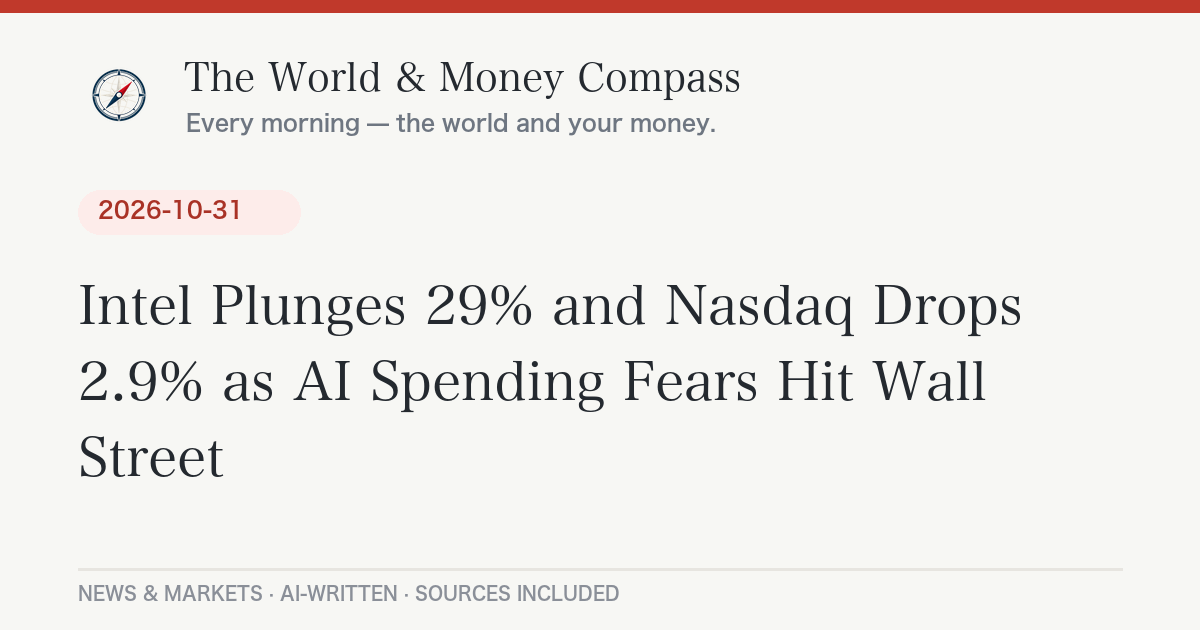
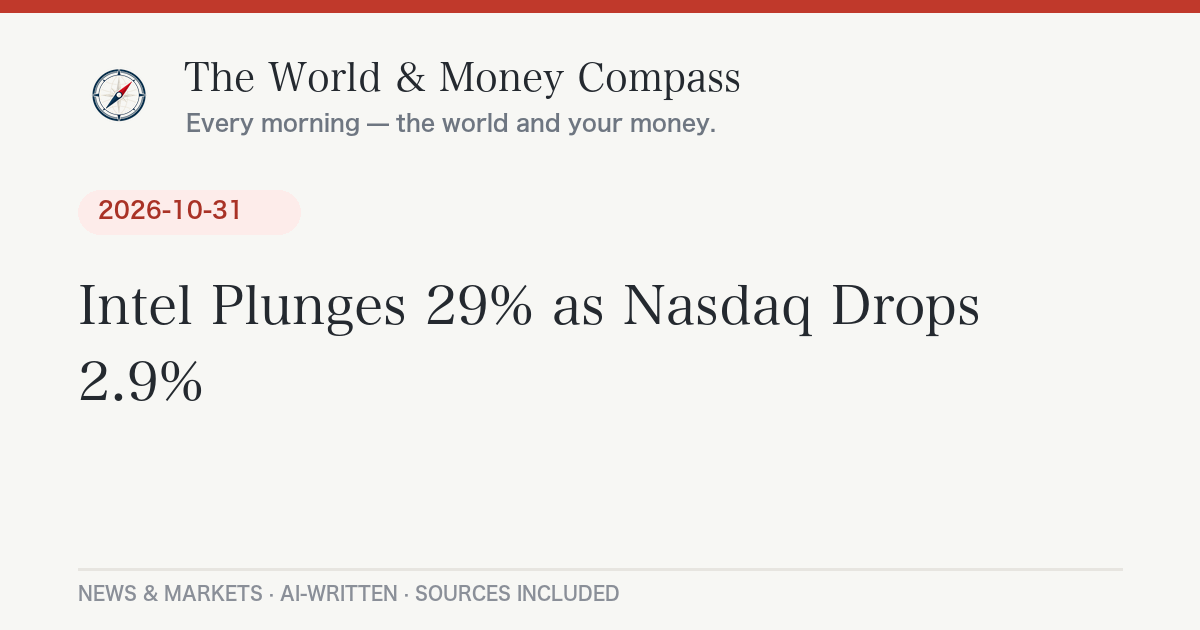
Daily briefing 2026-11-02

Changed region(s): [[0.185, 0.573, 0.8325, 0.6635], [0.4625, 0.4524, 0.8633, 0.5429], [0.0617, 0.6937, 0.185, 0.754]]

diff --git a/_posts/2026-11-02-daily-briefing.md b/_posts/2026-11-02-daily-briefing.md
@@ -1,0 +1,98 @@
+---
+layout: post
+lang: ja
+title: "米ハイテク株が急落、日経平均は2%超の反落｜11月2日のニュースとお金"
+date: 2026-11-02 07:37:44 +0900
+categories: [ニュース, 経済]
+headline: "米ハイテク株が急落、日経平均は2%超の反落"
+permalink: /2026/11/02/daily-briefing/
+---
+
+## 今日のポイント
+
+先週末の金融市場は「AI関連株の売り」と「原油高」が同時に進みました。米国ではナスダックが1日で2%台後半下がり、東京市場も連れ安に。さらに中東情勢の緊張で原油が高止まりし、物価と金利への心配が重なっています。今週は米国の中間選挙（11月3日）も控え、動きの大きい一週間になりそうです。
+
+## 今日の羅針盤（Compass Insight）
+
+いま市場を動かしている糸は2本あります。ひとつは「AIへの巨額投資が本当に利益になるのか」という疑い、もうひとつは「原油高が物価を押し上げ、金利が下がりにくくなる」という心配です。この2本が同時に引かれると、株は下がりやすく、安全資産に資金が逃げやすくなります。先週の米国では、決算が弱かった大手ハイテクが売られる一方、債券は買われて長期金利が低下しました。
+
+家計への影響で見ると、原油高は円安と合わさってガソリン・電気・ガス代、輸入食品の値上がりにつながりやすい点がポイントです。ドル円は157円台と円安水準にあり、エネルギー価格の上昇が家計に届きやすい状況です。投資信託や積立でAI・半導体関連の比率が高い人は、値動きが大きくなる局面に入っている点に注意が必要です。
+
+短期では、3日の米中間選挙と、その後の中東（イランをめぐる）情勢の動きに注目です。中長期では、日銀の次の利上げの時期、欧米の物価と金利の方向、そしてAI関連企業の投資負担が利益に見合うかどうかが、相場の大きな分かれ目になる可能性があります。
+
+## 今日のニュース
+
+### 日本
+- 日銀は10月30日の金融政策決定会合で、[政策金利を1.25％程度に維持](https://www.youtube.com/watch?v=FHmbEM26npw)しました。9月の利上げの効果を見極める姿勢と報じられています。
+- 30日の東京株式市場で日経平均は[大幅反落](https://kabutan.jp/news/marketnews/?b=n202610301226)。前日の米ハイテク株安を受け、AI・半導体関連株に売りが広がりました。
+- 北海道ではJR宗谷線の特急がヒグマと衝突して脱線したと報じられています（NHK）。
+- GMOインターネットグループの不正アクセス問題をめぐり、社長による説明の会見が11月2日に予定されていると報じられています。
+
+### 世界
+- 中東では、イランの最高指導者が新たな攻撃があれば「即座に軍事的に応じる」と警告。米国は追加攻撃をまだ決めていません。米国のルビオ国務長官は[「トランプ大統領は再開の決定をしていない」と述べました](https://www.foxnews.com/live-news/iran-war-news-trump-us-israel-november-1)。
+- 米国で開かれるG20外相会合では、ウクライナと中東の戦争をめぐる[溝が深く、統一した声明は難しい](https://www.tradingview.com/news/reuters.com,2026:newsml_L2N46F1AH:0-rifts-over-wars-in-ukraine-middle-east-loom-over-g20-meeting-in-us/)と報じられています。
+- ウクライナでは、ロシアの攻撃で電力インフラが被害を受けるなど、[攻撃の応酬が続いています](https://www.cfr.org/global-conflict-tracker/conflict/conflict-ukraine)。
+
+### アメリカ
+- 11月3日（火）が中間選挙の投開票日。トランプ大統領は、イランとの交渉は「うまくいっている」としつつ、相手の約束の守り方には疑問を示しました。追加攻撃は選挙前には行われにくいと報じられています。
+- 連邦準備制度（Fed）は今週の会合で金利を据え置いたと報じられています。ただし[一部の地区連銀総裁が追加利上げの可能性に言及](https://finance.yahoo.com/markets/live/stock-market-today-friday-october-30-dow-sp-500-nasdaq-amazon-intel-ai-sell-off-191429143.html)しています。
+
+### ヨーロッパ
+- 欧州中央銀行（ECB）は10月29日、[預金金利を2.5％に据え置き](https://www.euronews.com/2026/10/29/ecb-holds-rates-at-25-as-lagarde-announces-early-exit-with-inflation-near-double-the-targe)ました。ラガルド総裁は2027年2月7日に退任すると発表しています。
+- フランスの10年国債利回りは先週、2002年以来初めて5％を超えました。ユーロ圏の9月の物価上昇率は3.8％と、約3年ぶりの高さです（同記事）。
+
+## 経済とお金の動き
+
+### 世界の経済と相場
+
+| 指標 | 水準 | 前日比 |
+|---|---|---|
+| S&P500（10/30終値） | 7,580.07 | <span class="chg-down">-140.32（-1.82%）</span> |
+| ダウ平均（10/30終値） | 51,770.31ドル | <span class="chg-down">-572.29（-1.09%）</span> |
+| ナスダック総合（10/30終値） | 25,437.00 | <span class="chg-down">-747.70（-2.86%）</span> |
+| WTI原油（12月物） | 104.12ドル/バレル | <span class="chg-up">+1.98%</span> |
+| ドル円（ECB基準日10/30） | 157.25円 | 前日比データなし |
+
+出典：[米株はYahoo Finance](https://finance.yahoo.com/markets/live/stock-market-today-friday-october-30-dow-sp-500-nasdaq-amazon-intel-ai-sell-off-191429143.html)、[WTIはDTN](https://www.dtnpf.com/agriculture/web/ag/news/world-policy/article/2026/10/30/wti-15-october-fears-iran-war)、[ドル円はfrankfurter API](https://api.frankfurter.app/latest?from=USD&to=JPY)。
+
+ナスダックは10月全体で[約5％下落](https://finance.yahoo.com/markets/live/stock-market-today-friday-october-30-dow-sp-500-nasdaq-amazon-intel-ai-sell-off-191429143.html)し、2025年3月以来の月間下げ幅となりました。WTI原油は10月に約15％上昇しており、[ホルムズ海峡周辺の緊張](https://www.dtnpf.com/agriculture/web/ag/news/world-policy/article/2026/10/30/wti-15-october-fears-iran-war)が背景です。コメント：株安・原油高・金利高止まりが同時に起きやすい、いわば「重い」相場です。
+
+### アメリカの経済
+米10年国債利回りは[4.93％前後](https://finance.yahoo.com/markets/live/stock-market-today-friday-october-30-dow-sp-500-nasdaq-amazon-intel-ai-sell-off-191429143.html)で、株売りに伴う安全資産買いで低下しました。9月の物価指標が強く、年内の追加利上げを意識する見方も出ています。コメント：物価が下がりにくい中で企業業績が崩れると、株にとっては二重の逆風になります。
+
+### 日本の経済
+日経平均の30日の終値は[63,290.11円で、1,369.36円（2.12%）の下落](https://zai.diamond.jp/articles/-/498245)。4営業日ぶりの反落です。日銀は[現状維持](https://www.youtube.com/watch?v=FHmbEM26npw)を決め、市場の予想どおりだったため、相場への影響は限定的でした。コメント：円安の水準でも、海外のAI関連株安には逆らえなかった形です。
+
+## 今日の注目銘柄・セクター
+
+- **アルファベット（Google）**：10月28日の決算が市場予想を下回り、[決算後に株価が急落](https://finance.yahoo.com/markets/live/stock-market-today-friday-october-30-dow-sp-500-nasdaq-amazon-intel-ai-sell-off-191429143.html)したと報じられています。AI投資の重さが意識されました。
+- **インテル**：次期の見通しが弱く、PC需要の鈍さとメモリー価格が重荷になり、株価が[大きく下落](https://finance.yahoo.com/markets/live/stock-market-today-friday-october-30-dow-sp-500-nasdaq-amazon-intel-ai-sell-off-191429143.html)しました。
+- **アマゾン**：決算が予想を下回り、巨額の設備投資に対するフリーキャッシュフローの悪化が嫌気されました（同記事）。
+- **エネルギー・精製セクター**：原油高と精製マージンの改善を背景に、買われたと報じられています。
+
+*※特定銘柄の売買を推奨するものではありません。投資判断はご自身の責任で。*
+
+## まとめ：注目の3つ
+
+1. **3日の米中間選挙**：結果次第で、イラン情勢と市場の空気が変わる可能性があります。
+2. **AI関連株の動揺**：決算と巨額投資の採算が、株価の方向を左右します。
+3. **原油高と金利**：家計の物価と、日銀・Fed・ECBの次の一手に直結します。
+
+---
+<div class="post-sources" markdown="1">
+
+**出典：**
+- [Yahoo Finance：米国株式市場（10月30日）](https://finance.yahoo.com/markets/live/stock-market-today-friday-october-30-dow-sp-500-nasdaq-amazon-intel-ai-sell-off-191429143.html)
+- [ザイFX：日経平均大引け](https://zai.diamond.jp/articles/-/498245)
+- [株探：日経平均 大引け（10月30日）](https://kabutan.jp/news/marketnews/?b=n202610301226)
+- [ANN：日銀 政策金利を1.25％程度に維持](https://www.youtube.com/watch?v=FHmbEM26npw)
+- [DTN：WTI 10月に15％上昇](https://www.dtnpf.com/agriculture/web/ag/news/world-policy/article/2026/10/30/wti-15-october-fears-iran-war)
+- [Euronews：ECBが金利据え置き、ラガルド総裁が早期退任へ](https://www.euronews.com/2026/10/29/ecb-holds-rates-at-25-as-lagarde-announces-early-exit-with-inflation-near-double-the-targe)
+- [Fox News：イラン情勢ライブ（11月1日）](https://www.foxnews.com/live-news/iran-war-news-trump-us-israel-november-1)
+- [Reuters via TradingView：G20外相会合](https://www.tradingview.com/news/reuters.com,2026:newsml_L2N46F1AH:0-rifts-over-wars-in-ukraine-middle-east-loom-over-g20-meeting-in-us/)
+- [CFR：ウクライナ紛争トラッカー](https://www.cfr.org/global-conflict-tracker/conflict/conflict-ukraine)
+- 市場データ: [frankfurter API](https://api.frankfurter.app/latest?from=USD&to=JPY)
+
+*本記事は公開情報をもとに作成しています。*
+
+</div>

diff --git a/_posts/2026-11-02-daily-briefing-en.md b/_posts/2026-11-02-daily-briefing-en.md
@@ -1,0 +1,52 @@
+---
+layout: post
+lang: en
+title: "Tech Sell-Off Hits Wall Street, Nasdaq Drops 5% in October — November 2, 2026"
+date: 2026-11-02 07:37:44 +0900
+headline: "Tech Sell-Off Hits Wall Street, Nasdaq Drops 5% in October"
+permalink: /2026/11/02/daily-briefing/
+---
+
+## Top U.S. Stories
+
+- **Tech-led sell-off ends October.** On Friday the [Nasdaq fell 2.86% to 25,437.00, the S&P 500 lost 1.82% to 7,580.07 and the Dow slipped 1.09% to 51,770.31](https://finance.yahoo.com/markets/live/stock-market-today-friday-october-30-dow-sp-500-nasdaq-amazon-intel-ai-sell-off-191429143.html). The Nasdaq lost about 5% for the month, its worst since March 2025.
+  *Why it matters:* Weak results from big tech names are raising doubts about whether heavy AI spending will pay off, and those stocks make up a large share of many retirement accounts.
+- **Midterms on Tuesday.** Voters go to the polls on November 3. Secretary of State Rubio said President Trump [has not decided whether to resume strikes on Iran](https://www.foxnews.com/live-news/iran-war-news-trump-us-israel-november-1), and Fox reports they are unlikely before the vote.
+  *Why it matters:* Iran policy feeds directly into oil prices, and gasoline costs are a top voter concern.
+- **Fed on hold, hike talk lingers.** The Fed held rates this week, but some regional Fed presidents [signaled further hikes may be needed](https://finance.yahoo.com/markets/live/stock-market-today-friday-october-30-dow-sp-500-nasdaq-amazon-intel-ai-sell-off-191429143.html) after a hot inflation reading.
+  *Why it matters:* Higher-for-longer rates raise borrowing costs for mortgages and businesses.
+- Alphabet, Intel and Amazon all fell after disappointing earnings or outlooks (same source).
+
+## Compass Insight
+
+Two forces are pulling on markets at once: doubts about AI spending and a surge in oil. Together they hit stocks while pushing money into safer assets; Treasury yields fell on Friday even as inflation worries persist. For households, expensive oil means higher fuel and utility bills, and a stock portfolio heavy in tech is now swinging more than usual. In the short term, watch Tuesday's election and any shift in Iran policy afterward. Over the longer term, the question is whether companies can turn massive AI investment into profit, and whether central banks can ease at all with energy prices elevated.
+
+## Markets
+
+- **Dow** 51,770.31 (-1.09%), **S&P 500** 7,580.07 (-1.82%), **Nasdaq** 25,437.00 (-2.86%) at Friday's close.
+- **WTI crude** settled at [$104.12](https://www.dtnpf.com/agriculture/web/ag/news/world-policy/article/2026/10/30/wti-15-october-fears-iran-war) and rose about 15% in October on Strait of Hormuz tensions.
+- **10-year Treasury yield** near 4.93%, down on the flight to safety.
+- **USD/JPY** 157.25 on the [ECB reference rate for October 30](https://api.frankfurter.app/latest?from=USD&to=JPY). Japan's Nikkei 225 closed at [63,290.11, down 2.12%](https://zai.diamond.jp/articles/-/498245), and the Bank of Japan [kept its rate at about 1.25%](https://www.youtube.com/watch?v=FHmbEM26npw).
+- In Europe, the ECB [held its deposit rate at 2.5% and Christine Lagarde said she will step down in February 2027](https://www.euronews.com/2026/10/29/ecb-holds-rates-at-25-as-lagarde-announces-early-exit-with-inflation-near-double-the-targe).
+
+## Stocks in Focus
+
+- **Alphabet:** Shares slid sharply after its October 28 earnings missed expectations, on worries about heavy AI spending.
+- **Intel:** Fell sharply on a weak outlook tied to soft PC sales and memory-chip pricing.
+- **Energy and refiners:** Gained on higher crude and stronger refining margins.
+
+*Not a recommendation to buy or sell any security.*
+
+<div class="post-sources" markdown="1">
+
+**Sources:**
+- [Yahoo Finance: U.S. markets, October 30](https://finance.yahoo.com/markets/live/stock-market-today-friday-october-30-dow-sp-500-nasdaq-amazon-intel-ai-sell-off-191429143.html)
+- [Fox News: Iran war live, November 1](https://www.foxnews.com/live-news/iran-war-news-trump-us-israel-november-1)
+- [DTN: WTI up 15% in October](https://www.dtnpf.com/agriculture/web/ag/news/world-policy/article/2026/10/30/wti-15-october-fears-iran-war)
+- [Euronews: ECB holds rates, Lagarde to leave early](https://www.euronews.com/2026/10/29/ecb-holds-rates-at-25-as-lagarde-announces-early-exit-with-inflation-near-double-the-targe)
+- [Zai FX: Nikkei close](https://zai.diamond.jp/articles/-/498245)
+- [frankfurter API](https://api.frankfurter.app/latest?from=USD&to=JPY)
+
+</div>
+
+*Auto-generated and AI-written. Not investment advice.*
